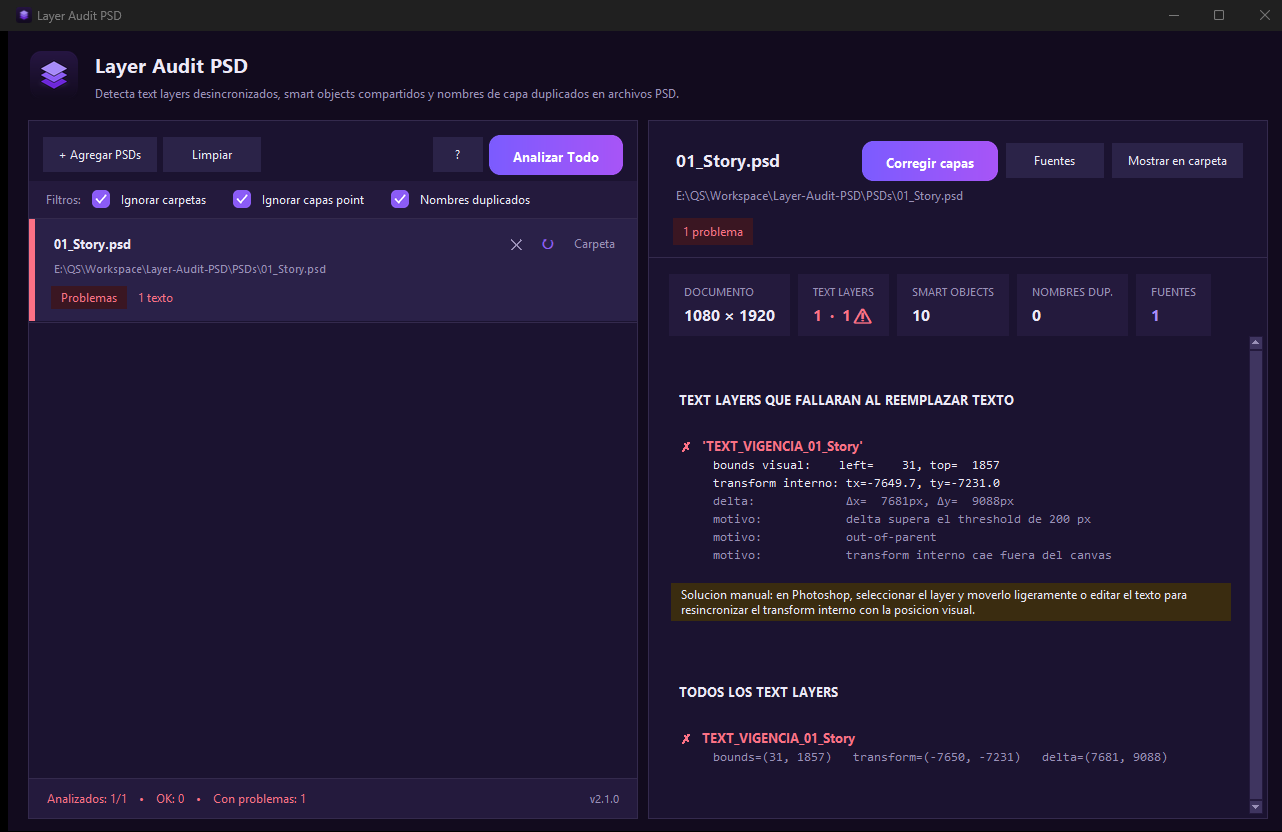
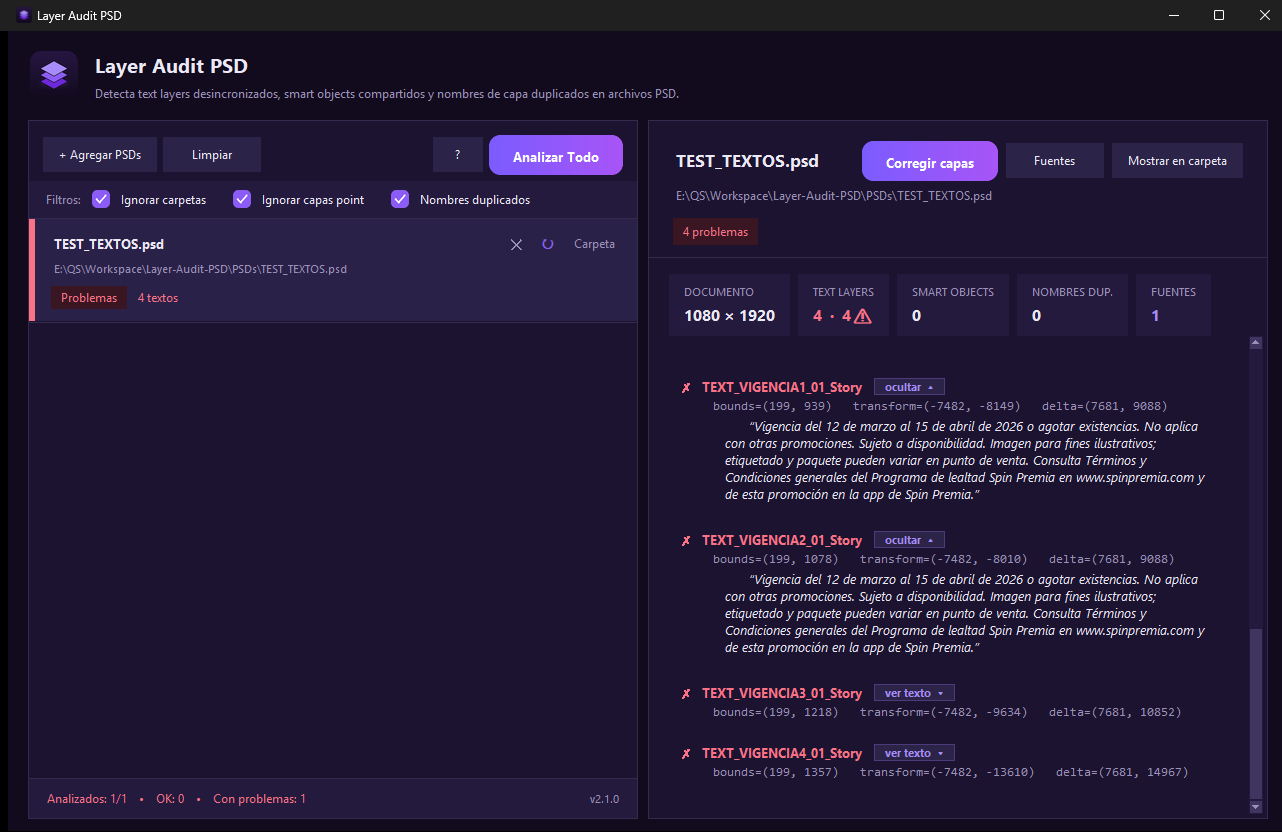
🚀 feat: desplegar el contenido de cada text layer en el panel de detalles
- check_type_layer captura el contenido de texto de la capa (layer.text)
  y lo expone como 'text' en el resultado (con manejo seguro de errores).
- En "Todos los text layers", cada capa con contenido muestra un chip
  "ver texto ▾" junto al nombre que despliega lo que dice la capa (cita
  itálica indentada), sin abrir el PSD. El contenido se oculta/muestra con
  el mecanismo `elide` del Text widget (sin recalcular posiciones); se
  trunca a 600 caracteres para textos largos.
- El chip (borde + texto violeta) reemplaza las flechas ▸ previas, que se
  leían como puntos decorativos y no comunicaban que eran desplegables.
- README y captura actualizados.

diff --git a/gui.py b/gui.py
@@ -714,6 +714,11 @@ class DetailsPanel(tk.Frame):
         self._on_fix = on_fix
         self.current_row = None
 
+        # Estado de despliegue del contenido por capa (flechas ▸/▾).
+        self._expand_state = {}
+        self._arrow_widgets = []
+        self._layer_uid = 0
+
         self.header = tk.Frame(self, bg=SURFACE)
         self.header.pack(fill='x', padx=SPACE_XL, pady=(SPACE_LG + 4, SPACE_MD))
 
@@ -798,6 +803,11 @@ class DetailsPanel(tk.Frame):
         self.text.tag_configure('mono', font=FONT_MONO, foreground=TEXT)
         self.text.tag_configure('mono_muted', font=FONT_MONO,
                                 foreground=TEXT_MUTED)
+        # Contenido de la capa (lo que "dice") — cita indentada.
+        self.text.tag_configure('content', foreground=TEXT,
+                                font=('Segoe UI', 10, 'italic'),
+                                lmargin1=54, lmargin2=54, rmargin=24,
+                                spacing1=2, spacing3=6)
         # Tags para empty / pending / running states con jerarquia visual.
         self.text.tag_configure('hero_glyph',
                                 font=('Segoe UI', 36),
@@ -1202,6 +1212,12 @@ class DetailsPanel(tk.Frame):
         self._chip("Fuentes", f"{fonts}", PRIMARY_HOV if fonts else TEXT)
 
     def _render(self, result):
+        # Reset del estado de despliegue (las flechas viejas se destruyen al
+        # borrar el contenido del Text en show_result).
+        self._expand_state = {}
+        self._arrow_widgets = []
+        self._layer_uid = 0
+
         if self.current_row.state == ST_FIXED:
             self.text.insert('end', "\n  ARCHIVO REPARADO CON EXITO\n", 'h')
             self.text.insert('end', 
@@ -1359,8 +1375,22 @@ class DetailsPanel(tk.Frame):
         else:
             sym, tag = '!', 'warn'
 
-        self.text.insert('end', f"\n  {sym}  ", tag)
-        self.text.insert('end', f"{r['name']}\n", tag)
+        content = (r.get('text') or '').strip()
+        has_content = bool(content)
+
+        # Símbolo + nombre, y un chip "ver texto ▾" que despliega el contenido.
+        self.text.insert('end', f"\n  {sym}  {r['name']}   ", tag)
+        if has_content:
+            uid = self._layer_uid
+            self._layer_uid += 1
+            chip = tk.Label(self.text, text="  ver texto  ▾  ",
+                            bg=BTN_BG, fg=PRIMARY_HOV,
+                            font=('Segoe UI', 8, 'bold'), cursor='hand2',
+                            bd=0, padx=SPACE_XS, pady=1,
+                            highlightthickness=1, highlightbackground=PRIMARY_DIM)
+            self.text.window_create('end', window=chip)
+            self._arrow_widgets.append(chip)
+        self.text.insert('end', "\n", tag)
 
         if r['transform']:
             bl, bt = r['bounds']
@@ -1372,6 +1402,24 @@ class DetailsPanel(tk.Frame):
                 'mono_muted')
         elif r['error']:
             self.text.insert('end', f"      error: {r['error']}\n", 'mono_muted')
+
+        # Contenido de la capa, oculto (elide) hasta pulsar el chip.
+        if has_content:
+            shown = content if len(content) <= 600 else content[:600] + '…'
+            tagn = f'celide_{uid}'
+            self.text.tag_configure(tagn, elide=True)
+            self.text.insert('end', f"      “{shown}”\n", ('content', tagn))
+            chip.bind('<Button-1>',
+                      lambda e, u=uid, c=chip, t=tagn: self._toggle_content(u, c, t))
+            chip.bind('<Enter>', lambda e, c=chip: c.config(bg=BTN_HOV))
+            chip.bind('<Leave>', lambda e, c=chip: c.config(bg=BTN_BG))
+
+    def _toggle_content(self, uid, chip, tagn):
+        expanded = not self._expand_state.get(uid, False)
+        self._expand_state[uid] = expanded
+        self.text.tag_configure(tagn, elide=not expanded)
+        chip.config(text="  ocultar  ▴  " if expanded else "  ver texto  ▾  ")
+        return 'break'
 
 
 # ===========================================================================

diff --git a/detector.py b/detector.py
@@ -456,6 +456,12 @@ def check_type_layer(layer, threshold_px=THRESHOLD_PX,
     bounds_top = layer.top
     bounds_right = layer.right
     bounds_bottom = layer.bottom
+    # Contenido de texto de la capa (lo que "dice"). Se muestra en la GUI
+    # de forma desplegable para no tener que abrir el PSD.
+    try:
+        text_content = layer.text
+    except Exception:
+        text_content = None
     layer_id = _safe_attr(layer, 'layer_id')
     parent = _safe_attr(layer, 'parent')
     parent_id = _safe_attr(parent, 'layer_id')
@@ -575,6 +581,7 @@ def check_type_layer(layer, threshold_px=THRESHOLD_PX,
 
         return {
             'name': layer.name,
+            'text': text_content,
             'layer_id': layer_id,
             'parent_id': parent_id,
             'parent_name': parent_name,
@@ -599,6 +606,7 @@ def check_type_layer(layer, threshold_px=THRESHOLD_PX,
     except Exception as e:
         return {
             'name': layer.name,
+            'text': text_content,
             'layer_id': layer_id,
             'parent_id': parent_id,
             'parent_name': parent_name,

diff --git a/README.md b/README.md
@@ -199,7 +199,7 @@ python gui.py
 
 1. **+ Agregar PSDs** — carga uno o varios archivos (soporta lotes grandes; procesa en paralelo, uno por core de CPU).
 2. **Analizar Todo** — corre las auditorías activas.
-3. Selecciona un archivo para ver el desglose completo en el panel de detalles.
+3. Selecciona un archivo para ver el desglose completo en el panel de detalles. En **Todos los text layers**, cada capa tiene una flecha ▸ que despliega su **contenido** (lo que dice el texto), sin abrir el PSD.
 4. **Fuentes** — abre el inventario de todas las fuentes (PostScript name) del PSD, con total, desglose por artboard y opción de copiar la lista.
 5. **Corregir capas** — repara los text layers desincronizados (genera `<nombre>_fixed.psd`). Requiere Node.js.
 
